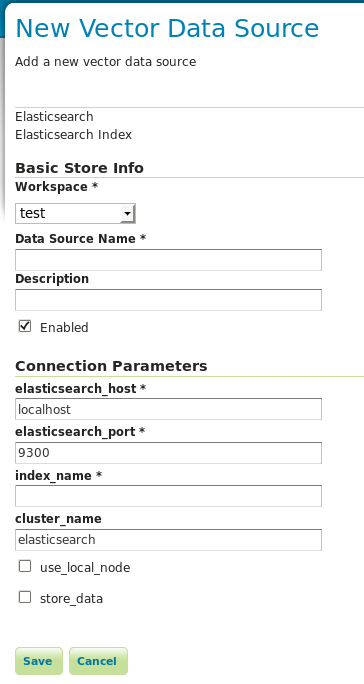
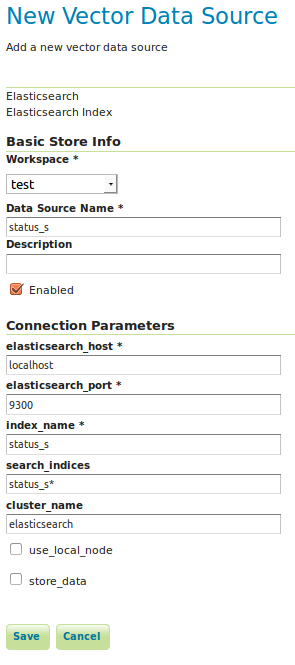
Add support for cross-index searching

diff --git a/gt-elasticsearch/src/main/java/mil/nga/giat/data/elasticsearch/ElasticDataStoreFactory.java b/gt-elasticsearch/src/main/java/mil/nga/giat/data/elasticsearch/ElasticDataStoreFactory.java
@@ -24,12 +24,15 @@ public class ElasticDataStoreFactory implements DataStoreFactorySpi {
     public static final Param HOSTPORT = new Param("elasticsearch_port", Integer.class, "Elasticsearch port", true, 9300);
 
     /** Index name. **/
-    public static final Param INDEX_NAME = new Param("index_name", String.class, "Name of index", true);
+    public static final Param INDEX_NAME = new Param("index_name", String.class, "Index defining type", true);
+
+    /** Index name. **/
+    public static final Param SEARCH_INDICES = new Param("search_indices", String.class, "Indices for search (default is index_name)", false);
 
     /** Cluster name. **/
     public static final Param CLUSTERNAME = new Param("cluster_name", String.class, "Name of cluster", false, "elasticsearch");
 
-    public static final Param LOCAL_NODE = new Param("use_local_node", Boolean.class, "Use Elasticsearch node client (otherwise use transport client)", false, false);
+    public static final Param LOCAL_NODE = new Param("use_local_node", Boolean.class, "Use node client", false, false);
 
     public static final Param STORE_DATA = new Param("store_data", Boolean.class, "Store data in local node", false, false);
 
@@ -45,7 +48,7 @@ public class ElasticDataStoreFactory implements DataStoreFactorySpi {
 
     @Override
     public Param[] getParametersInfo() {
-        return new Param[]{HOSTNAME, HOSTPORT, INDEX_NAME, CLUSTERNAME, LOCAL_NODE, STORE_DATA};
+        return new Param[]{HOSTNAME, HOSTPORT, INDEX_NAME, SEARCH_INDICES, CLUSTERNAME, LOCAL_NODE, STORE_DATA};
     }
 
     @Override
@@ -78,10 +81,11 @@ public class ElasticDataStoreFactory implements DataStoreFactorySpi {
         final String searchHost = (String) getValue(HOSTNAME, params);
         final Integer hostPort = (Integer) getValue(HOSTPORT, params);
         final String indexName = (String) INDEX_NAME.lookUp(params);
+        final String searchIndices = (String) SEARCH_INDICES.lookUp(params);
         final String clusterName = (String) getValue(CLUSTERNAME, params);
         final Boolean storeData = (Boolean) getValue(STORE_DATA, params);
         final Boolean localNode = (Boolean) getValue(LOCAL_NODE, params);
-        return new ElasticDataStore(searchHost, hostPort, indexName, clusterName, localNode, storeData);
+        return new ElasticDataStore(searchHost, hostPort, indexName, searchIndices, clusterName, localNode, storeData);
     }
 
     @Override

diff --git a/gt-elasticsearch/src/main/java/mil/nga/giat/data/elasticsearch/ElasticDataStore.java b/gt-elasticsearch/src/main/java/mil/nga/giat/data/elasticsearch/ElasticDataStore.java
@@ -62,6 +62,8 @@ public class ElasticDataStore extends ContentDataStore {
 
     private final String indexName;
 
+    private final String searchIndices;
+
     private final Node node;
 
     private final Client client;
@@ -75,12 +77,18 @@ public class ElasticDataStore extends ContentDataStore {
     private Map<String, ElasticLayerConfiguration> elasticConfigurations = new ConcurrentHashMap<>();
 
     public ElasticDataStore(String searchHost, Integer hostPort, 
-            String indexName, String clusterName,
+            String indexName, String searchIndices, String clusterName,
             boolean localNode, boolean storeData) {
 
         LOGGER.fine("initializing data store " + searchHost + ":" + hostPort + "/" + indexName);
 
         this.indexName = indexName;
+        
+        if (searchIndices != null) {
+            this.searchIndices = searchIndices;
+        } else {
+            this.searchIndices = indexName;
+        }
 
         if (localNode) {
             final NodeBuilder nodeBuilder;
@@ -195,6 +203,7 @@ public class ElasticDataStore extends ContentDataStore {
             }
 
             add("_id", "string", mapping);
+            add("_index", "string", mapping);
             add("_type", "string", mapping);
             add("_score", "float", mapping);
             add("_relative_score", "float", mapping);
@@ -337,6 +346,10 @@ public class ElasticDataStore extends ContentDataStore {
 
     public String getIndexName() {
         return indexName;
+    }
+
+    public String getSearchIndices() {
+        return searchIndices;
     }
 
     public Client getClient() {

diff --git a/gt-elasticsearch/src/test/java/mil/nga/giat/data/elasticsearch/ElasticDataStoreTest.java b/gt-elasticsearch/src/test/java/mil/nga/giat/data/elasticsearch/ElasticDataStoreTest.java
@@ -41,4 +41,15 @@ public class ElasticDataStoreTest extends ElasticTestSupport {
         assertTrue(new HashSet<String>(Arrays.asList(typeNames)).contains(("active")));
     }
 
+    @Test
+    public void testDefaultSearchIndices() throws IOException {
+        Map<String,Serializable> params = createConnectionParams();
+
+        ElasticDataStoreFactory factory = new ElasticDataStoreFactory();
+        DataStore dataStore = factory.createDataStore(params);
+        String indexName = ((ElasticDataStore) dataStore).getIndexName();
+        String searchIndices = ((ElasticDataStore) dataStore).getSearchIndices();
+        assertTrue(searchIndices.equals(indexName));
+    }
+
 }

diff --git a/gt-elasticsearch/src/main/java/mil/nga/giat/data/elasticsearch/ElasticFeatureReader.java b/gt-elasticsearch/src/main/java/mil/nga/giat/data/elasticsearch/ElasticFeatureReader.java
@@ -95,6 +95,8 @@ public class ElasticFeatureReader implements FeatureReader<SimpleFeatureType, Si
 
             if (values == null && name.equals("_id")) {
                 builder.set(name, hit.getId());
+            } else if (values == null && name.equals("_index")) {
+                builder.set(name, hit.getIndex());
             } else if (values == null && name.equals("_type")) {
                 builder.set(name,  hit.getType());
             } else if (values == null && name.equals("_score")) {

diff --git a/gt-elasticsearch/src/main/java/mil/nga/giat/data/elasticsearch/ElasticFeatureSource.java b/gt-elasticsearch/src/main/java/mil/nga/giat/data/elasticsearch/ElasticFeatureSource.java
@@ -135,7 +135,7 @@ public class ElasticFeatureSource extends ContentFeatureSource {
         // setup request
         final SearchRequestBuilder searchRequest;
         searchRequest = dataStore.getClient()
-                .prepareSearch(dataStore.getIndexName())
+                .prepareSearch(dataStore.getSearchIndices())
                 .setTypes(getName().toString())
                 .setSearchType(searchType);
 
